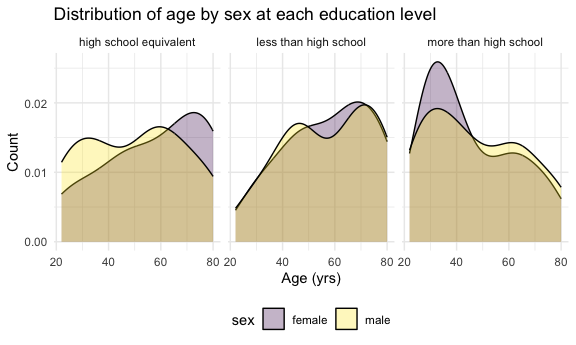
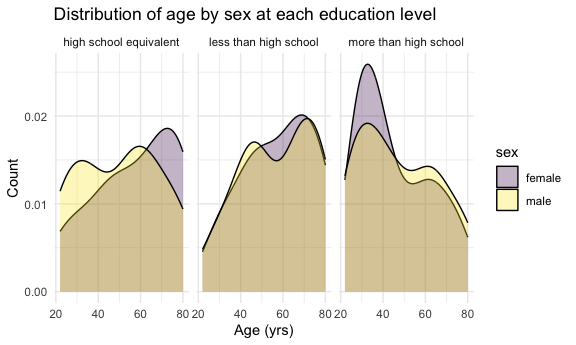
finishing up problem 3

diff --git a/p8105_hw3_cc5423.md b/p8105_hw3_cc5423.md
@@ -216,7 +216,7 @@ final_accel_df |>
 | male   | more than high school  |  54 |
 
 The majority of women have more than a high school degree at (n = 59).
-Similarly, the majority of men have more than a high scholl degree at (n
+Similarly, the majority of men have more than a high school degree at (n
 = 54).
 
 Visualizing the distribution of age of men and women in each education
@@ -232,7 +232,8 @@ final_accel_df |>
     title = "Distribution of age by sex at each education level",
     x = "Age (yrs)",
     y = "Count"
-  )
+  ) +
+  theme_minimal()
 ```
 
 <img src="p8105_hw3_cc5423_files/figure-gfm/unnamed-chunk-10-1.png" alt="" width="90%" />
@@ -255,7 +256,8 @@ final_accel_df |>
     title = "Total activity by age and sex, stratified by education level",
     x = "Age (yrs)",
     y = "Total activity in a day"
-  )
+  ) +
+  theme_minimal()
 ```
 
     ## `geom_smooth()` using method = 'loess' and formula = 'y ~ x'
@@ -275,16 +277,17 @@ education level:
 ``` r
 final_accel_df |> 
   pivot_longer(min1:min1440, names_to = "minute", names_prefix = "min", values_to = "activity") |> 
-  mutate(minute = as.numeric(minute)) |> 
-  ggplot(aes(x = minute, y = activity, color = sex)) +
+  mutate(minute = as.numeric(minute), hour = minute/60) |> 
+  ggplot(aes(x = hour, y = activity, color = sex)) +
   facet_grid (. ~ education) +
   geom_point(alpha = 0.05) +
   geom_smooth() +
   labs(
     title = "Activity over the day for each education level",
-    x = "Minute of the day",
+    x = "Hour of the day",
     y = "Activity"
-  )
+  ) +
+  theme_minimal()
 ```
 
     ## `geom_smooth()` using method = 'gam' and formula = 'y ~ s(x, bs = "cs")'
@@ -292,7 +295,215 @@ final_accel_df |>
 <img src="p8105_hw3_cc5423_files/figure-gfm/unnamed-chunk-12-1.png" alt="" width="90%" />
 
 Those with a higher education level have several outliers of peak
-activity level at a couple points in the day as opposed to the other
-education levels.
+activity level at a couple points in the day (around 8:00 am for women
+and around 8:00 pm for men) as opposed to the other education levels.
+However, across all education levels, activity is usually lowest in the
+beginning of the day until 5:00 am, where it increases dramatically and
+remains somewhat stable from 10:00 am to around 6:00 pm. The activity
+throughout the day is also very similar in shape for both men and women
+in each of the education levels.
 
 # Problem 3
+
+Reading in and combining files:
+
+``` r
+jan_2020_df =
+  read_csv("data/citibike/Jan 2020 Citi.csv", na = c("","NA",".")) |> 
+  mutate(month = "Jan", year = 2020)
+```
+
+    ## Rows: 12420 Columns: 7
+    ## ── Column specification ────────────────────────────────────────────────────────
+    ## Delimiter: ","
+    ## chr (6): ride_id, rideable_type, weekdays, start_station_name, end_station_n...
+    ## dbl (1): duration
+    ## 
+    ## ℹ Use `spec()` to retrieve the full column specification for this data.
+    ## ℹ Specify the column types or set `show_col_types = FALSE` to quiet this message.
+
+``` r
+jan_2024_df = 
+  read_csv("data/citibike/Jan 2024 Citi.csv", na = c("","NA",".")) |> 
+  mutate(month = "Jan", year = 2024)
+```
+
+    ## Rows: 18861 Columns: 7
+    ## ── Column specification ────────────────────────────────────────────────────────
+    ## Delimiter: ","
+    ## chr (6): ride_id, rideable_type, weekdays, start_station_name, end_station_n...
+    ## dbl (1): duration
+    ## 
+    ## ℹ Use `spec()` to retrieve the full column specification for this data.
+    ## ℹ Specify the column types or set `show_col_types = FALSE` to quiet this message.
+
+``` r
+jul_2020_df =
+  read_csv("data/citibike/July 2020 Citi.csv", na = c("","NA",".")) |> 
+  mutate(month = "Jul", year = 2020)
+```
+
+    ## Rows: 21048 Columns: 7
+    ## ── Column specification ────────────────────────────────────────────────────────
+    ## Delimiter: ","
+    ## chr (6): ride_id, rideable_type, weekdays, start_station_name, end_station_n...
+    ## dbl (1): duration
+    ## 
+    ## ℹ Use `spec()` to retrieve the full column specification for this data.
+    ## ℹ Specify the column types or set `show_col_types = FALSE` to quiet this message.
+
+``` r
+jul_2024_df = 
+  read_csv("data/citibike/July 2024 Citi.csv", na = c("","NA",".")) |> 
+  mutate(month = "Jul", year = 2024)
+```
+
+    ## Rows: 47156 Columns: 7
+    ## ── Column specification ────────────────────────────────────────────────────────
+    ## Delimiter: ","
+    ## chr (6): ride_id, rideable_type, weekdays, start_station_name, end_station_n...
+    ## dbl (1): duration
+    ## 
+    ## ℹ Use `spec()` to retrieve the full column specification for this data.
+    ## ℹ Specify the column types or set `show_col_types = FALSE` to quiet this message.
+
+``` r
+all_df =
+  bind_rows(jan_2020_df, jan_2024_df, jul_2020_df, jul_2024_df)
+```
+
+- all column names are already clean
+- added in month and year to label observations before combining
+- combined all observations into one dataset using `bind_rows`
+
+Producing a reader-friendly table showing the total number of rides in
+each combination of year and month separating casual riders and Citi
+Bike members:
+
+``` r
+all_df |> 
+  group_by(rideable_type, month, year) |> 
+  summarize(N = n()) |> 
+  knitr::kable()
+```
+
+    ## `summarise()` has regrouped the output.
+    ## ℹ Summaries were computed grouped by rideable_type, month, and year.
+    ## ℹ Output is grouped by rideable_type and month.
+    ## ℹ Use `summarise(.groups = "drop_last")` to silence this message.
+    ## ℹ Use `summarise(.by = c(rideable_type, month, year))` for per-operation
+    ##   grouping (`?dplyr::dplyr_by`) instead.
+
+| rideable_type | month | year |     N |
+|:--------------|:------|-----:|------:|
+| classic_bike  | Jan   | 2020 | 12417 |
+| classic_bike  | Jan   | 2024 |  6708 |
+| classic_bike  | Jul   | 2020 | 20113 |
+| classic_bike  | Jul   | 2024 | 16298 |
+| electric_bike | Jan   | 2020 |     3 |
+| electric_bike | Jan   | 2024 | 12153 |
+| electric_bike | Jul   | 2020 |   935 |
+| electric_bike | Jul   | 2024 | 30858 |
+
+The fewest rides for casual riders happened in January 2024 (n = 6708),
+and the most rides for casual riders happened in July 2020 (n = 20113).
+In general, for casual riders, more rides happen in July than in
+January. The fewest rides for Citi Bike members happened in January 2020
+(n = 3), and the most rides for casual riders happened in July 2024 (n =
+30858). In general, for Citi Bike members, fewer rides happened in 2020
+as opposed to 2024.
+
+Table showing the 5 most popular starting stations for July 2024:
+
+``` r
+all_df |>
+  filter(month == "Jul", year == 2024) |> 
+  group_by(start_station_name) |> 
+  summarize(N = n()) |> 
+  mutate(popularity_rank = min_rank(desc(N))) |> 
+  arrange(popularity_rank) |> 
+  slice_head(n = 5) |> 
+  relocate(popularity_rank) |> 
+  knitr::kable()
+```
+
+| popularity_rank | start_station_name       |   N |
+|----------------:|:-------------------------|----:|
+|               1 | Pier 61 at Chelsea Piers | 163 |
+|               2 | University Pl & E 14 St  | 155 |
+|               3 | W 21 St & 6 Ave          | 152 |
+|               4 | West St & Chambers St    | 150 |
+|               5 | W 31 St & 7 Ave          | 146 |
+
+The most popular station in July 2024 was Pier 61 at Chelsea Piers, with
+163 rides originating from this station. The second most popular station
+was University Pl and E 14 St, followed by W 21 St and 6 Ave. The first
+five most popular starting stations all look to be in mid-to-lower
+Manhattan.
+
+Plot to investigate the effects of day of the week, month, and year on
+median ride duration:
+
+``` r
+jan_df =
+  all_df |> 
+    group_by(weekdays, month, year) |> 
+    summarize(med_dur = median(duration)) |> 
+    filter(month == "Jan")
+```
+
+    ## `summarise()` has regrouped the output.
+    ## ℹ Summaries were computed grouped by weekdays, month, and year.
+    ## ℹ Output is grouped by weekdays and month.
+    ## ℹ Use `summarise(.groups = "drop_last")` to silence this message.
+    ## ℹ Use `summarise(.by = c(weekdays, month, year))` for per-operation grouping
+    ##   (`?dplyr::dplyr_by`) instead.
+
+``` r
+jul_df =
+  all_df |> 
+    group_by(weekdays, month, year) |> 
+    summarize(med_dur = median(duration)) |> 
+    filter(month == "Jul")
+```
+
+    ## `summarise()` has regrouped the output.
+    ## ℹ Summaries were computed grouped by weekdays, month, and year.
+    ## ℹ Output is grouped by weekdays and month.
+    ## ℹ Use `summarise(.groups = "drop_last")` to silence this message.
+    ## ℹ Use `summarise(.by = c(weekdays, month, year))` for per-operation grouping
+    ##   (`?dplyr::dplyr_by`) instead.
+
+``` r
+ggplot(data = jan_df, aes(x = weekdays, y = med_dur, color = month)) +
+  geom_point() +
+  geom_point(data = jul_df) +
+  facet_grid (. ~ year) +
+  labs(
+    title = "Median ride duration by day of the week, month, and year",
+    x = "Day of the Week",
+    y = "Median Ride Duration"
+  ) +
+  theme_minimal()
+```
+
+<img src="p8105_hw3_cc5423_files/figure-gfm/unnamed-chunk-16-1.png" alt="" width="90%" />
+
+For data in 2024, figure that shows the impact of month, membership
+status, and bike type on the distribution of ride duration:
+
+``` r
+all_df |> 
+  filter(year == 2024) |> 
+  group_by(month, member_casual, rideable_type) |> 
+  ggplot() +
+  geom_boxplot(aes(x = duration, y = month, fill = member_casual)) +
+  facet_grid(. ~ rideable_type) +
+  labs(
+    title = "Distribution of ride duration in 2025",
+    x = "Ride duration",
+    y = "Month"
+  )
+```
+
+<img src="p8105_hw3_cc5423_files/figure-gfm/unnamed-chunk-17-1.png" alt="" width="90%" />
